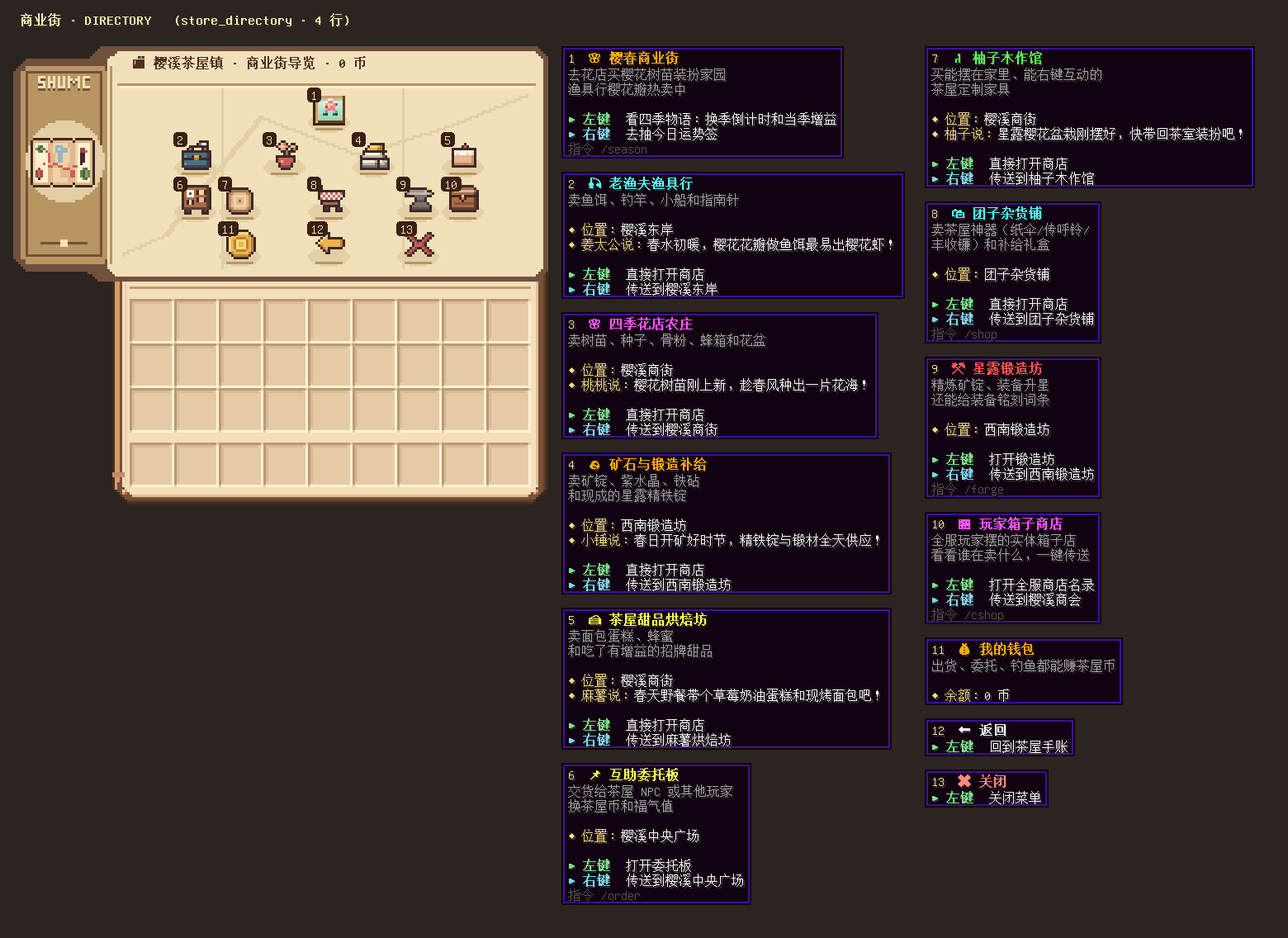
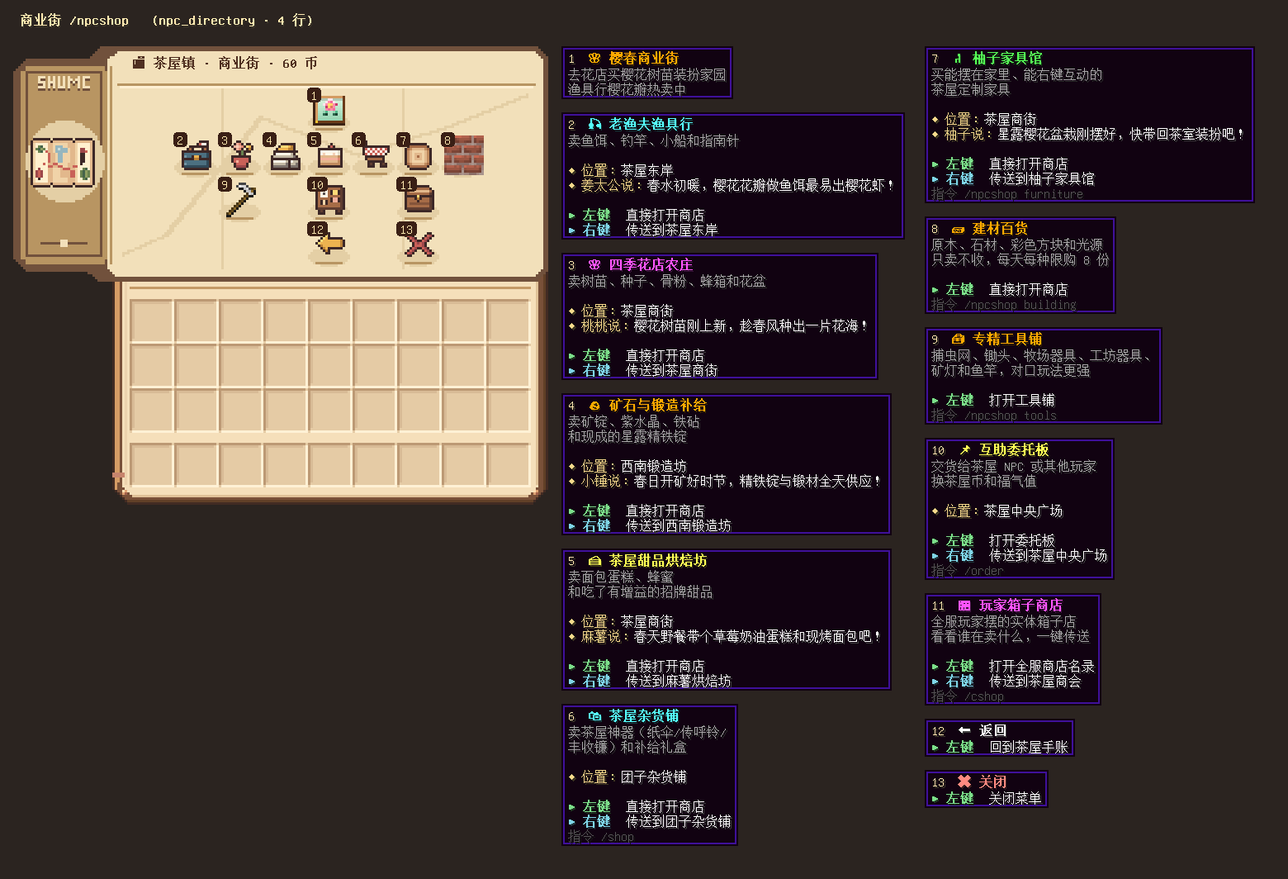
同步 2026-11-26 线上 CozyLife 1.8.3（含 1.8.1 菜单精简 / 1.8.2 财富榜）：家具只在柚子家具馆、杂货铺两页、商业街为全部商店入口、生活专精进主菜单、锻造坊右键传送、财富榜在排行榜、隐藏称号/迎客只在个人设置、3D 机器回各自玩法菜单；重渲 9 张菜单图；FAQ 补资源世界重置恢复正常；首页最近更新

Changed region(s): [[0.0, 0.0, 0.9846, 0.9615]]

diff --git a/furniture.html b/furniture.html
@@ -46,30 +46,30 @@
 </div></div>
 
 <h2>柚子家具馆 /npcshop furniture</h2>
-<p>商业大街西侧的家具匠人 <strong>柚子</strong>（右键 NPC），或输入 <code class="cmd">/npcshop furniture</code> 打开 <strong>🪑 柚子家具馆</strong>。店里一共 64 件在卖的茶屋家具，另有 1 台 3D 茶屋烹饪灶台和 8 台牧场 / 农田 / 捕虫的 3D 设施同价代售。</p>
+<p>商业大街西侧的家具匠人 <strong>柚子</strong>（右键 NPC），或输入 <code class="cmd">/npcshop furniture</code> 打开 <strong>🪑 柚子家具馆</strong>；菜单里走主菜单「🛒 商业街」→「🪑 柚子家具馆」。店里一共 64 件在卖的茶屋家具，<strong>全服只有这一家卖家具</strong>。</p>
 <ul>
   <li><strong>第一排</strong>：9 个分类标签——🏠 全部家具，和 8 类装饰（座椅、桌台、收纳·床铺、灯具、厨房、墙饰·地毯、绿植、鼠鼠茶屋）。</li>
-  <li><strong>第二排正中</strong>：<strong>⚒ 工作台</strong>标签，单独一页放「玩法入口」家具和全服的 3D 设施。</li>
-  <li><strong>中间三排</strong>：每页 21 件商品，左键买 1 件；每件都写着尺寸、摆法、互动和价格。</li>
-  <li><strong>最后一排</strong>：上一页 · 💰 我的余额 · 返回商业街导览 · ❓ 家具怎么摆 · 下一页。</li>
+  <li><strong>第二排正中</strong>：<strong>⚒ 工作台</strong>标签，单独一页放 8 件「玩法入口」家具。</li>
+  <li><strong>中间三排</strong>：每页最多 21 件商品，左键买 1 件；每件都写着尺寸、摆法、互动和价格（一页不满 7 件时排在中间那排正中）。</li>
+  <li><strong>最后一排</strong>：上一页 · 💰 我的余额 · 返回商业街 · ❓ 家具怎么摆 · 下一页。</li>
 </ul>
-<p>福气值 ≥100 时家具 9 折（价格里已算好）。祝尼魔果酱展示架、祝尼魔毛绒玩偶要等全服修好「❄ 冬季暖炉包」才能买，修好「⛏ 矿洞星辉包」后半价。杂货铺 <code class="cmd">/shop</code> 的「装饰家具」分页还是只卖经典 7 件，那里有一格「🪑 去柚子家具馆」。</p>
+<p>福气值 ≥100 时家具 9 折（价格里已算好）。祝尼魔果酱展示架、祝尼魔毛绒玩偶要等全服修好「❄ 冬季暖炉包」才能买，修好「⛏ 矿洞星辉包」后半价。杂货铺 <code class="cmd">/shop</code> 已经不卖家具了。</p>
 <div class="table-wrap"><table>
 <tr><th>分类</th><th>件数</th><th>有哪些</th></tr>
 <tr><td>🪑 座椅</td><td>8 件</td><td>芝芝软垫坐垫、樱木靠背椅、茶屋圆木凳、紫藤坐垫、樱花长椅、鼠鼠软沙发、暖绒扶手椅、和室靠背座椅</td></tr>
 <tr><td>🍵 桌台</td><td>6 件</td><td>圆矮桌、茶室方桌、长茶桌、读书写字桌、樱花小边几、暖桌被炉</td></tr>
 <tr><td>📚 收纳·床铺</td><td>9 件</td><td>祝尼魔果酱展示架、樱木书架、茶具柜、桐木阶梯柜、墙上小木架、竹编收纳篮、回收木箱、樱花被褥、鼠鼠木框床</td></tr>
 <tr><td>🏮 灯具</td><td>8 件</td><td>暖黄小台灯、纸行灯、红纸灯笼、樱花串灯、铜烛台、石灯笼、守夜小茶炉、雾沼紫晶灯</td></tr>
-<tr><td>🍚 厨房</td><td>5 件（含 3D 茶屋烹饪灶台）</td><td>洗碗台、鼠鼠电饭煲、碗碟架、料理台</td></tr>
+<tr><td>🍚 厨房</td><td>4 件</td><td>洗碗台、鼠鼠电饭煲、碗碟架、料理台</td></tr>
 <tr><td>🖼 墙饰·地毯</td><td>9 件</td><td>晴天风铃、樱花挂轴、格子窗（带窗帘）、鼠鼠挂钟、鼠纹暖帘、鼠鼠家纹匾额、榻榻米、樱花圆地毯、鼠鼠脚垫</td></tr>
 <tr><td>🌿 绿植</td><td>6 件</td><td>星露樱花盆栽、龟背竹大盆栽、吊篮绿萝、生花花器、竹子盆景、窗台多肉三连</td></tr>
 <tr><td>🐭 鼠鼠茶屋</td><td>9 件</td><td>桌面茶具、祝尼魔毛绒玩偶、鼠鼠大玩偶、茶屋收银柜台、茶屋立式菜单、招财鼠、茶壶展示台、萌宠藤编小窝、鼠鼠迎客邮筒</td></tr>
-<tr><td>⚒ 工作台</td><td>16 件（含牧场 4 台加工机、3 档洒水器、玻璃生态瓶）</td><td>铁壶炭炉、茶屋发酵木桶、烘焙石窑、星露铁砧台、鉴宝台、委托告示板、饰品梳妆台、茶屋出货箱</td></tr>
+<tr><td>⚒ 工作台</td><td>8 件</td><td>铁壶炭炉、茶屋发酵木桶、烘焙石窑、星露铁砧台、鉴宝台、委托告示板、饰品梳妆台、茶屋出货箱</td></tr>
 </table></div>
 <p>星渊纪念家具（守夜小茶炉、雾沼紫晶灯）和回收木箱也会出现在分类页里，但不卖，点一下会告诉你去哪拿。原来的「🔥 炭火灶台」已停售，外观换给了 3D 茶屋烹饪灶台；已经摆着的炭火灶台照常能当灯用。</p>
 
 <h3>⚒ 工作台页</h3>
-<p>工作台页一共 16 件：茶屋自己的 8 件玩法入口家具，加上原来分散在各处的 8 台 3D 设施（同价互通，在哪买都一样）：</p>
+<p>工作台页一共 8 件玩法入口家具：</p>
 <div class="table-wrap"><table>
 <tr><th>家具 / 设施</th><th>右键做什么</th><th>价格</th></tr>
 <tr><td>♨ 铁壶炭炉</td><td>右键喝茶回血；潜行右键打开茶屋工坊（站点 +15%）</td><td>320 币</td></tr>
@@ -80,10 +80,8 @@
 <tr><td>📜 委托告示板</td><td>挂墙；打开委托板 <code>/order</code></td><td>360 币</td></tr>
 <tr><td>💍 饰品梳妆台</td><td>打开饰品匣 <code>/accessory</code></td><td>520 币</td></tr>
 <tr><td>📦 茶屋出货箱</td><td>一键卖出背包物产（同 <code>/sell</code>）</td><td>420 币</td></tr>
-<tr><td>🥚🧀🧵🫒 牧场 4 台加工机</td><td>蛋黄酱 / 奶酪 / 织布 / 松露精油</td><td>1200 / 1500 / 1800 / 2800 币</td></tr>
-<tr><td>🥉🥈💎 3 档自动洒水器</td><td>3×3 / 5×5 / 7×7 耕地保湿 + 催熟</td><td>320 / 780 / 1680 币</td></tr>
-<tr><td>🌿 3D 玻璃生态瓶</td><td>放星级昆虫永久展示（鱼缸不在这页）</td><td>2200 币</td></tr>
 </table></div>
+<div class="callout tip"><img class="px" src="images/art/housekey.png" alt=""><div><p><strong>3D 机器不在家具馆卖</strong>：宴席烹饪灶台在 <code class="cmd">/feast</code>，牧场 4 台加工机在 <code class="cmd">/ranch</code>，3 档自动洒水器在农耕 <code class="cmd">/farm</code> 的「肥料与洒水器」页，3D 玻璃生态瓶在捕虫商店 <code class="cmd">/bug</code>。价格不变，摆放规则（不叠放、能摆在地毯上）也和家具一样。</p></div></div>
 
 <h2>怎么摆放</h2>
 <ul>
@@ -104,7 +102,7 @@
 <p>不加新规则：家具只是把已有玩法「接」到家里，规则和数值都和原来的指令一样。</p>
 <h3>厨房：宴席灶台与宴席上桌</h3>
 <ul>
-  <li><strong>🍳 3D 茶屋烹饪灶台</strong>（1200 币，家具馆「厨房」页第一格，也能在 <code class="cmd">/feast</code> 买）：右键打开两页菜单——<strong>🍲 家常料理</strong>（就是 <code class="cmd">/kitchen</code> 茶屋食谱）和 <strong>🍳 宴席大餐</strong>；烹饪中右键是颠勺。锅里没菜时潜行右键收回。</li>
+  <li><strong>🍳 3D 茶屋烹饪灶台</strong>（1200 币，在 <code class="cmd">/feast</code> 买）：右键打开两页菜单——<strong>🍲 家常料理</strong>（就是 <code class="cmd">/kitchen</code> 茶屋食谱）和 <strong>🍳 宴席大餐</strong>；烹饪中右键是颠勺。锅里没菜时潜行右键收回。</li>
   <li><strong>宴席上桌</strong>：拿着做好的宴席右键<strong>圆矮桌、茶室方桌、长茶桌、樱花小边几、暖桌被炉</strong>，菜就摆在桌面上；长茶桌每格一份。</li>
   <li><strong>🔪 料理台、📋 茶屋立式菜单</strong>：右键打开茶屋食谱。</li>
 </ul>
@@ -216,7 +214,6 @@
 <h3>🍚 厨房</h3>
 <div class="table-wrap"><table>
 <tr><th>家具</th><th>尺寸</th><th>摆法</th><th>互动</th><th>价格 / 获得</th></tr>
-<tr><td>🍳 3D 茶屋烹饪灶台</td><td>1×1</td><td>地面</td><td>右键：家常料理 + 宴席大餐</td><td>1200 币（和 /feast 同一台、同价，不打福气折扣）</td></tr>
 <tr><td>🚰 洗碗台</td><td>1×1</td><td>地面</td><td>摸一摸（音效 + 特效）</td><td>440 币</td></tr>
 <tr><td>🍚 鼠鼠电饭煲</td><td>1×1</td><td>地面</td><td>摸一摸（音效 + 特效）</td><td>220 币</td></tr>
 <tr><td>🍽 碗碟架</td><td>1×1</td><td>地面</td><td>摸一摸（音效 + 特效）</td><td>180 币</td></tr>
@@ -269,14 +266,20 @@
 <tr><td>📜 委托告示板</td><td>1×1</td><td>挂墙</td><td>右键开委托板</td><td>360 币</td></tr>
 <tr><td>💍 饰品梳妆台</td><td>1×1</td><td>地面</td><td>右键开饰品匣</td><td>520 币</td></tr>
 <tr><td>📦 茶屋出货箱</td><td>1×1</td><td>地面</td><td>右键一键出货</td><td>420 币</td></tr>
-<tr><td>🥚 蛋黄酱制作机</td><td>1×1</td><td>地面</td><td>牧场 3D 加工机：黄金土鸡蛋 → 金丝蛋黄酱（90 秒）</td><td>1200 币（和 /ranch 同价）</td></tr>
-<tr><td>🧀 奶酪压榨机</td><td>1×1</td><td>地面</td><td>牧场 3D 加工机：星露鲜奶 → 星露陈年奶酪（110 秒）</td><td>1500 币（和 /ranch 同价）</td></tr>
-<tr><td>🧵 茶屋织布机</td><td>1×1</td><td>地面</td><td>牧场 3D 加工机：柔云细羊毛 → 星露丝绒布（120 秒）</td><td>1800 币（和 /ranch 同价）</td></tr>
-<tr><td>🫒 松露精油机</td><td>1×1</td><td>地面</td><td>牧场 3D 加工机：牧场黑松露 → 黑金松露精油（150 秒）</td><td>2800 币（和 /ranch 同价）</td></tr>
-<tr><td>🥉 铜制自动洒水器</td><td>1×1</td><td>农田</td><td>3×3 耕地保湿，每 30 秒 4% 催熟</td><td>320 币（和 /farm 同价）</td></tr>
-<tr><td>🥈 银质自动洒水器</td><td>1×1</td><td>农田</td><td>5×5 耕地保湿，每 25 秒 7% 催熟</td><td>780 币（和 /farm 同价）</td></tr>
-<tr><td>💎 铱金自动洒水器</td><td>1×1</td><td>农田</td><td>7×7 耕地保湿，每 20 秒 10% 催熟 + 品质提升</td><td>1680 币（和 /farm 同价）</td></tr>
-<tr><td>🌿 3D 玻璃生态瓶</td><td>1×1</td><td>桌面 / 地面</td><td>手持星级昆虫右键放进去永久展示</td><td>2200 币（和 /bug 同价）</td></tr>
+</table></div>
+<h3>3D 机器（在各自玩法菜单买）</h3>
+<p>这几台和家具一样摆在家里、遵守同样的摆放规则，但不在柚子家具馆卖：</p>
+<div class="table-wrap"><table>
+<tr><th>机器</th><th>尺寸</th><th>摆法</th><th>互动</th><th>价格 / 在哪买</th></tr>
+<tr><td>🍳 3D 茶屋烹饪灶台</td><td>1×1</td><td>地面</td><td>右键：家常料理 + 宴席大餐</td><td>1200 币（<code>/feast</code> 买，不打福气折扣）</td></tr>
+<tr><td>🥚 蛋黄酱制作机</td><td>1×1</td><td>地面</td><td>牧场 3D 加工机：黄金土鸡蛋 → 金丝蛋黄酱（90 秒）</td><td>1200 币（<code>/ranch</code> 买）</td></tr>
+<tr><td>🧀 奶酪压榨机</td><td>1×1</td><td>地面</td><td>牧场 3D 加工机：星露鲜奶 → 星露陈年奶酪（110 秒）</td><td>1500 币（<code>/ranch</code> 买）</td></tr>
+<tr><td>🧵 茶屋织布机</td><td>1×1</td><td>地面</td><td>牧场 3D 加工机：柔云细羊毛 → 星露丝绒布（120 秒）</td><td>1800 币（<code>/ranch</code> 买）</td></tr>
+<tr><td>🫒 松露精油机</td><td>1×1</td><td>地面</td><td>牧场 3D 加工机：牧场黑松露 → 黑金松露精油（150 秒）</td><td>2800 币（<code>/ranch</code> 买）</td></tr>
+<tr><td>🥉 铜制自动洒水器</td><td>1×1</td><td>农田</td><td>3×3 耕地保湿，每 30 秒 4% 催熟</td><td>320 币（<code>/farm</code> 肥料与洒水器页买）</td></tr>
+<tr><td>🥈 银质自动洒水器</td><td>1×1</td><td>农田</td><td>5×5 耕地保湿，每 25 秒 7% 催熟</td><td>780 币（<code>/farm</code> 肥料与洒水器页买）</td></tr>
+<tr><td>💎 铱金自动洒水器</td><td>1×1</td><td>农田</td><td>7×7 耕地保湿，每 20 秒 10% 催熟 + 品质提升</td><td>1680 币（<code>/farm</code> 肥料与洒水器页买）</td></tr>
+<tr><td>🌿 3D 玻璃生态瓶</td><td>1×1</td><td>桌面 / 地面</td><td>手持星级昆虫右键放进去永久展示</td><td>2200 币（<code>/bug</code> 捕虫商店买）</td></tr>
 </table></div>
 
 </main>

diff --git a/economy.html b/economy.html
@@ -107,7 +107,7 @@
 <figure class="menu-shot"><a href="images/menus/full/orders.png"><img src="images/menus/orders.png" alt="委托板（/order）" loading="lazy"></a><figcaption>委托板（/order） · <span class="zoom">点图看每个按钮的说明</span></figcaption></figure>
 
 <h2>茶屋杂货铺 /shop</h2>
-<p><code class="cmd">/shop</code>（别名 <code>/商店</code>、<code>/杂货铺</code>）有三个分页：茶屋神器、礼盒与珍藏、装饰家具。</p>
+<p><code class="cmd">/shop</code>（别名 <code>/商店</code>、<code>/杂货铺</code>）有两个分页：茶屋神器、礼盒与珍藏。菜单里从主菜单「🛒 商业街」进，返回键也回商业街。</p>
 <h3>茶屋神器</h3>
 <div class="item-grid">
 <div class="item"><img src="images/items/claim_wand.png" alt="" loading="lazy"><div><div class="i-name">茶屋金铲圈地杖</div><div class="i-sub">120 币 · 右键两点圈地</div></div></div>
@@ -121,22 +121,19 @@
 </div>
 <h3>礼盒与珍藏</h3>
 <p>抹茶拿铁、冰美式、命名牌、樱花建造礼盒、柔光建筑礼盒、烟花，以及限购的附魔之瓶 ×16（每日 2 次）、金苹果 ×2（每日 2 次）、不死图腾（每周 1 次，2800 币）、潜影盒（每周 2 次，2400 币）、经验修补附魔书（每周 1 次，3800 币）、鞘翅（终身 1 次，6800 币）。</p>
-<h3>装饰家具</h3>
-<p>能摆在家里、右键互动的 3D 家具：桌面茶具 260 币（品茶回血）、星露樱花盆栽 280 币、暖黄小台灯 320 币（真光源，可开关）、晴天风铃 280 币、芝芝软垫坐垫 240 币（右键坐下）；拿着家具右键地面摆放，<strong>左键或潜行右键收回</strong>，只有主人和搭子能收回。另有两件要全服完成「❄ 冬季暖炉包」献祭后才能买：祝尼魔果酱展示架 480 币、祝尼魔毛绒玩偶 560 币（「⛏ 矿洞星辉包」修好后半价）。</p>
-<p>杂货铺只卖这经典 7 件。更多 3D 家具（共 64 件在卖，含能一键出货的茶屋出货箱、开工坊的发酵木桶等）在商业街的 <strong>柚子家具馆</strong> <code class="cmd">/npcshop furniture</code>，见 <a href="furniture.html">茶屋家具</a>。</p>
-<div class="inline-icons"><img class="px" src="images/items/tea_set.png" alt=""> <img class="px" src="images/items/sakura_bonsai.png" alt=""> <img class="px" src="images/items/cozy_lamp.png" alt=""> <img class="px" src="images/items/wind_chime.png" alt=""> <img class="px" src="images/items/mochi_cushion.png" alt=""> <img class="px" src="images/items/jam_shelf.png" alt=""> <img class="px" src="images/items/junimo_plush.png" alt=""></div>
+<h3>家具去哪买</h3>
+<p>杂货铺不再卖家具。所有 3D 家具（共 64 件在卖，含桌面茶具、暖黄小台灯、芝芝软垫坐垫等经典款，以及能一键出货的茶屋出货箱、开工坊的发酵木桶）都在商业街的 <strong>🪑 柚子家具馆</strong> <code class="cmd">/npcshop furniture</code>，见 <a href="furniture.html">茶屋家具</a>。</p>
 <div class="shots">
 <figure class="menu-shot"><a href="images/menus/full/shop_tools.png"><img src="images/menus/shop_tools.png" alt="杂货铺 · 茶屋神器" loading="lazy"></a><figcaption>杂货铺 · 茶屋神器 · <span class="zoom">点图看每个按钮的说明</span></figcaption></figure>
 <figure class="menu-shot"><a href="images/menus/full/shop_supplies.png"><img src="images/menus/shop_supplies.png" alt="杂货铺 · 礼盒与珍藏" loading="lazy"></a><figcaption>杂货铺 · 礼盒与珍藏 · <span class="zoom">点图看每个按钮的说明</span></figcaption></figure>
-<figure class="menu-shot"><a href="images/menus/full/shop_furniture.png"><img src="images/menus/shop_furniture.png" alt="杂货铺 · 装饰家具" loading="lazy"></a><figcaption>杂货铺 · 装饰家具 · <span class="zoom">点图看每个按钮的说明</span></figcaption></figure>
 </div>
 <div class="callout tip"><img class="px" src="images/art/koi.png" alt=""><div><p>许愿池里福气值 ≥100 时，主城商店打 9 折；换到「👑 锦鲤大善人」称号后永久 9 折。见 <a href="social.html#锦鲤许愿池-pool">锦鲤许愿池</a>。</p></div></div>
 
 <h2>建材百货</h2>
-<p>在 <code class="cmd">/shop</code> 商业街导览里新增的一家店，也可以 <code class="cmd">/npcshop building</code>（别名 <code>jiancai</code>）直接打开。四个分类共 44 件建材：<strong>木材、石材、装饰、远征与光源</strong>，含 16 色羊毛 / 染色玻璃 / 染色陶瓦 / 混凝土粉选色，单份 32–320 币（价格以游戏内为准）。只卖不收，每人每天每种限购 8 份；福气 9 折照常。盖房子缺料，先来这里补齐再开工。</p>
+<p>商业街（主菜单「🛒 商业街」或 <code class="cmd">/npcshop</code>）里的一家店，也可以 <code class="cmd">/npcshop building</code>（别名 <code>jiancai</code>）直接打开。四个分类共 44 件建材：<strong>木材、石材、装饰、远征与光源</strong>，含 16 色羊毛 / 染色玻璃 / 染色陶瓦 / 混凝土粉选色，单份 32–320 币（价格以游戏内为准）。只卖不收，每人每天每种限购 8 份；福气 9 折照常。盖房子缺料，先来这里补齐再开工。</p>
 
 <h2>荣誉称号 /title</h2>
-<p><code class="cmd">/title</code> 打开「我的称号」：只列你已经拥有的称号，点一下就佩戴。佩戴的称号会显示在聊天名字前、头顶名字前和 Tab 列表里，一次只显示一个，随时免费换，也可以隐藏。菜单底部的「🏷 获取更多称号」打开称号图鉴，可以用茶屋币买下面这些：</p>
+<p><code class="cmd">/title</code> 打开「我的称号」：只列你已经拥有的称号，点一下就佩戴。佩戴的称号会显示在聊天名字前、头顶名字前和 Tab 列表里，一次只显示一个，随时免费换。想隐藏称号去 <code class="cmd">/shezhi</code> 个人设置的「🏷 显示称号」开关。手账里从「📊 我的档案」点头像进「我的称号」。菜单右下角的「🏷 获取更多称号」打开称号图鉴，可以用茶屋币买下面这些：</p>
 <div class="table-wrap"><table>
 <tr><th>称号</th><th>价格</th></tr>
 <tr><td>🌸 樱花茶客</td><td>免费（新人默认）</td></tr>
@@ -147,7 +144,7 @@
 <tr><td>👑 茶屋名誉镇长</td><td>1200 币</td></tr>
 </table></div>
 <p>另外，专精到 Lv10 / Lv20 会自动获得专精称号，许愿池福气商店能换「👑 锦鲤大善人」，它们都会出现在「我的称号」里，想戴哪个选哪个。</p>
-<figure class="menu-shot"><a href="images/menus/full/title.png"><img src="images/menus/title.png" alt="荣誉称号（/title）" loading="lazy"></a><figcaption>荣誉称号（/title） · <span class="zoom">点图看每个按钮的说明</span></figcaption></figure>
+<figure class="menu-shot"><a href="images/menus/full/title.png"><img src="images/menus/title.png" alt="我的称号（/title）" loading="lazy"></a><figcaption>我的称号（/title） · <span class="zoom">点图看每个按钮的说明</span></figcaption></figure>
 </main>
 </div>
 <footer class="site-footer">

diff --git a/town.html b/town.html
@@ -72,19 +72,19 @@
 </div>
 
 <h2>商业街专柜</h2>
-<p><code class="cmd">/npcshop</code>（别名 <code>/商铺</code>、<code>/专柜</code>）打开商业街导览：<strong>左键</strong>直接打开某家店的商店，<strong>右键</strong>传送到那家店门口。也可以直接 <code>/npcshop tackle|florist|blacksmith|bakery|furniture|building|tools</code> 打开某一家。</p>
+<p><code class="cmd">/npcshop</code>（别名 <code>/商铺</code>、<code>/专柜</code>）打开 <strong>🛒 商业街</strong>（手账主菜单里也叫「🛒 商业街」），全服所有商店都从这里进：第一排 7 家店（渔具行、花店、矿石补给、烘焙坊、杂货铺、柚子家具馆、建材百货），第二排专精工具铺、互助委托板、玩家箱子商店。<strong>左键</strong>直接打开某家店的商店，<strong>右键</strong>传送到那家店门口。也可以直接 <code>/npcshop tackle|florist|blacksmith|bakery|furniture|building|tools</code> 打开某一家。</p>
 <div class="table-wrap"><table>
 <tr><th>店铺</th><th>店主</th><th>卖什么</th></tr>
-<tr><td><img class="px" src="images/art/creel.png" alt="">老渔夫渔具行 <code>tackle</code></td><td>姜太公</td><td>四种诱饵（樱花花瓣、发光浆果、甜浆果、生鳕鱼）、钓鱼竿、樱花木船、航海指南针；「专精鱼竿架」卖 7 种专精鱼竿，见 <a href="tools.html#rods">专精工具</a></td></tr>
+<tr><td><img class="px" src="images/art/creel.png" alt="">老渔夫渔具行 <code>tackle</code></td><td>姜太公</td><td>四种诱饵（樱花花瓣、发光浆果、甜浆果、生鳕鱼）、钓鱼竿、樱花木船、航海指南针；7 种专精鱼竿在专精工具铺的鱼竿货架，见 <a href="tools.html#rods">专精工具</a></td></tr>
 <tr><td><img class="px" src="images/art/seeds.png" alt="">四季花店农庄 <code>florist</code></td><td>桃桃</td><td>樱花树苗、翠竹、小麦种子、胡萝卜、骨粉、蜂箱、花盆</td></tr>
 <tr><td><img class="px" src="images/art/anvil.png" alt="">矿石与锻造补给 <code>blacksmith</code></td><td>小锤</td><td>煤炭、铁锭、金锭、紫水晶碎片、成品星露精铁锭 / 红莲淬火石、铁砧、锻造台</td></tr>
 <tr><td><img class="px" src="images/art/giftbox.png" alt="">茶屋甜品烘焙坊 <code>bakery</code></td><td>麻薯</td><td>面包、草莓奶油蛋糕、南瓜派、曲奇、蜂蜜瓶、招牌松饼与奶昔</td></tr>
-<tr><td><img class="px" src="images/art/housekey.png" alt="">柚子家具馆 <code>furniture</code></td><td>柚子</td><td>64 件 3D 茶屋家具分 9 类翻页卖，另有 ⚒ 工作台页（工坊站点、锻造鉴宝入口、出货箱、牧场加工机、洒水器、生态瓶），见 <a href="furniture.html">茶屋家具</a></td></tr>
+<tr><td><img class="px" src="images/art/housekey.png" alt="">柚子家具馆 <code>furniture</code></td><td>柚子</td><td>全服唯一的家具店：64 件 3D 茶屋家具分 9 类翻页卖，另有 ⚒ 工作台页（工坊站点、锻造 / 鉴宝 / 委托 / 饰品入口、出货箱），见 <a href="furniture.html">茶屋家具</a></td></tr>
 <tr><td><img class="px" src="images/art/stalls.png" alt="">建材百货 <code>building</code></td><td>—</td><td>木材、石材、装饰、远征与光源共 44 件建材，只卖不收，见 <a href="economy.html#建材百货">经济页</a></td></tr>
 <tr><td><img class="px" src="images/items/hoe_field.png" alt="">专精工具铺 <code>tools</code></td><td>—</td><td>专精捕虫网、锄头、牧场器具、工坊器具、矿灯，以及 6 件传奇工具的进度与领取，见 <a href="tools.html">专精工具</a></td></tr>
-<tr><td><img class="px" src="images/art/stalls.png" alt="">团子杂货铺</td><td>—</td><td><code class="cmd">/shop</code>：茶屋神器、补给礼盒、装饰家具，见 <a href="economy.html#茶屋杂货铺-shop">经济页</a></td></tr>
+<tr><td><img class="px" src="images/art/stalls.png" alt="">茶屋杂货铺</td><td>团子</td><td><code class="cmd">/shop</code>：茶屋神器、礼盒与珍藏（家具去柚子家具馆），见 <a href="economy.html#茶屋杂货铺-shop">经济页</a></td></tr>
 </table></div>
-<figure class="menu-shot"><a href="images/menus/full/store_directory.png"><img src="images/menus/store_directory.png" alt="商业街导览（/npcshop）" loading="lazy"></a><figcaption>商业街导览（/npcshop） · <span class="zoom">点图看每个按钮的说明</span></figcaption></figure>
+<figure class="menu-shot"><a href="images/menus/full/store_directory.png"><img src="images/menus/store_directory.png" alt="商业街（/npcshop）" loading="lazy"></a><figcaption>商业街（/npcshop） · <span class="zoom">点图看每个按钮的说明</span></figcaption></figure>
 
 <h2>主城 NPC 一览</h2>
 <p>主城里站着 20 位可以点的 NPC，<strong>左键或右键点一下</strong>就会打开对应的菜单，和输入指令效果一样。找不到人时直接输指令也行。</p>

diff --git a/social.html b/social.html
@@ -54,9 +54,9 @@
 
 <h2>串门、留言与点赞</h2>
 <ul>
-  <li><code class="cmd">/visit</code>（别名 <code>/做客</code>、<code>/拜访</code>）：打开<strong>邻里家园榜</strong>，去好友家做客。在野外 <code class="cmd">/sethome</code> 后你的家就会出现在榜上；<code>/visit toggle</code> 开关迎客。</li>
+  <li><code class="cmd">/visit</code>（别名 <code>/做客</code>、<code>/拜访</code>）：打开<strong>邻里家园榜</strong>，去好友家做客。在野外 <code class="cmd">/sethome</code> 后你的家就会出现在榜上；<code>/visit toggle</code> 开关迎客（菜单里的迎客开关在 <code class="cmd">/shezhi</code> 个人设置）。</li>
   <li><code class="cmd">/like</code> <code>玩家名</code>（别名 <code>/点赞</code>）：给好友的家点赞送花：<strong>双方各得 10 茶屋币 + 5 福气值</strong>。每天最多送 3 朵，同一位好友每天 1 次；对方要先在野外 <code>/sethome</code> 才能被点赞。</li>
-  <li><code class="cmd">/guestbook</code>（别名 <code>/留言簿</code>）：看自己家门口的便利贴；<code>/guestbook 玩家名 留言</code> 给好友留言（每人最多保留 14 条），每天前 3 次留言各得 8 茶屋币。</li>
+  <li><code class="cmd">/guestbook</code>（别名 <code>/留言簿</code>）：看自己家门口的便利贴；菜单里从邻里家园榜进；<code>/guestbook 玩家名 留言</code> 给好友留言（每人最多保留 14 条），每天前 3 次留言各得 8 茶屋币。</li>
   <li><strong>名片上的家具</strong>：邻里家园榜每张名片多了「家园内饰」一行，统计屋主和搭子在家附近 32 格内摆的茶屋家具、烹饪灶台、牧场加工机、洒水器和生态瓶件数，再挑几个亮点标签（茶席、工坊、收银专柜、星渊纪念……）。</li>
   <li><strong>到了门口也能互动</strong>：屋主门口的 🎏 鼠纹暖帘右键直接点赞送花，📮 鼠鼠迎客邮筒 / 📚 读书写字桌右键看留言簿并弹出 [👍 点赞送花] [✍ 写便利贴]；屋主只租了庄园、还没 <code>/sethome</code> 也能送。详见 <a href="furniture.html#社交互动家具">社交互动家具</a>。</li>
 </ul>
@@ -83,15 +83,15 @@
 <figure class="menu-shot"><a href="images/menus/full/fortune.png"><img src="images/menus/fortune.png" alt="今日运势签（/fortune）" loading="lazy"></a><figcaption>今日运势签（/fortune） · <span class="zoom">点图看每个按钮的说明</span></figcaption></figure>
 
 <h2>我的档案与全服排行榜</h2>
-<p>手账第一排的「📊 我的档案」（或 <code class="cmd">/profile</code>）把你在茶屋的成绩放在一页：财富、专精、钓鱼（图鉴进度和最大的鱼）、星渊、环保分、邻里人气、签到天数，每一项旁边都写着你的全服名次。点头像可以打开「我的称号」。</p>
-<p><code class="cmd">/paihang</code>（或 <code class="cmd">/rank</code>）是全服排行榜，一共七个榜：财富、专精、鱼王、星渊、环保、人气、签到。鼠标停在榜单上能看到前 10 名。榜单每 5 分钟更新一次，刚钓到的大鱼稍等一会儿就会上榜。</p>
+<p>手账第一排的「📊 我的档案」（或 <code class="cmd">/profile</code>）把你在茶屋的成绩放在一页：财富、专精、钓鱼（图鉴进度和最大的鱼）、星渊、环保分、邻里人气、签到天数，每一项旁边都写着你的全服名次（数据卡只看数据，不跳转）。点头像打开「我的称号」，页里还有 🏆 排行榜和 ⚙ 个人设置。</p>
+<p><code class="cmd">/paihang</code>（或 <code class="cmd">/rank</code>）是全服排行榜，一共七个榜：<strong>财富榜</strong>（按当前茶屋币余额，钱包里的「🏆 财富榜」也能打开）、专精、鱼王、星渊、环保、人气、签到。鼠标停在榜单上能看到前 10 名。榜单每 5 分钟更新一次，刚钓到的大鱼稍等一会儿就会上榜。</p>
 
 <h2>个人设置 /shezhi</h2>
 <p><code class="cmd">/shezhi</code>（或 <code class="cmd">/settings</code>）一个菜单管好这些开关：</p>
 <div class="table-wrap"><table>
 <tr><th>开关</th><th>作用</th></tr>
 <tr><td>✨ 个人特效</td><td>打开个人特效页，统一管理樱花飘落、庆典光环和星渊拖尾（见下）</td></tr>
-<tr><td>🏷 显示称号</td><td>隐藏或恢复你佩戴的称号；右键直接打开我的称号</td></tr>
+<tr><td>🏷 显示称号</td><td>隐藏或恢复你佩戴的称号（全服只有这里能隐藏；关了再打开会恢复原来的称号）</td></tr>
 <tr><td>🏡 家园迎客</td><td>关掉就是闭门谢客，别人暂时不能来串门</td></tr>
 <tr><td>🚀 接受传送请求</td><td>不想被人拉来拉去时关掉</td></tr>
 <tr><td>💬 接收私信</td><td>想安静种田时关掉</td></tr>

diff --git a/index.html b/index.html
@@ -60,12 +60,21 @@
 </div></div>
 
 <h2 id="recent">最近更新</h2>
+<div class="callout tip"><img class="px" src="images/art/map.png" alt=""><div>
+  <p class="c-title">2026-11-26 · 菜单精简（一个玩法只留一个入口）</p>
+  <ul>
+    <li><strong>家具只在柚子家具馆卖</strong>：杂货铺 <code class="cmd">/shop</code> 只剩「茶屋神器」「礼盒与珍藏」两页；宴席灶台、牧场加工机、洒水器、生态瓶只在 <code class="cmd">/feast</code>、<code class="cmd">/ranch</code>、<code class="cmd">/farm</code>、<code class="cmd">/bug</code> 里买。见 <a href="furniture.html">茶屋家具</a>。</li>
+    <li>主菜单：「🛒 商业街」是全部商店的入口（杂货铺、委托板、箱子商店都在里面）；「🎭 生活专精」挪到主菜单；锻造坊按钮右键传送到锻造坊。</li>
+    <li>钱包里的富豪榜改成「🏆 财富榜」入口，打开全服排行榜（和 <code class="cmd">/paihang</code> 同一份）。隐藏称号、家园迎客开关只在 <code class="cmd">/shezhi</code> 个人设置。</li>
+    <li>资源世界、下界、末地每 7 天的重置恢复正常。所有指令照常能用。</li>
+  </ul>
+</div></div>
 <div class="callout tip"><img class="px" src="images/art/housekey.png" alt=""><div>
   <p class="c-title">2026-11-24 · 3D 家具大更新（CozyLife 1.8.0 / 星渊 0.9.6）</p>
   <ul>
-    <li><strong>柚子家具馆</strong> <code class="cmd">/npcshop furniture</code> 改成分类翻页：64 件 3D 家具，外加 ⚒ 工作台页（工坊站点、锻造 / 鉴宝 / 委托 / 饰品入口、牧场加工机、洒水器、生态瓶）。见 <a href="furniture.html">茶屋家具</a>。</li>
+    <li><strong>柚子家具馆</strong> <code class="cmd">/npcshop furniture</code> 改成分类翻页：64 件 3D 家具，外加 ⚒ 工作台页（工坊站点、锻造 / 鉴宝 / 委托 / 饰品入口、出货箱）。见 <a href="furniture.html">茶屋家具</a>。</li>
     <li>家具能<strong>挂墙、吊顶、铺地毯再叠放、坐下</strong>，左键收回；很多家具右键直接打开玩法：出货箱一键出货、萌宠小窝、迎客邮筒、收银柜台开店、书架看档案、暖帘点赞。</li>
-    <li>宴席灶台进家具馆，右键两页（家常料理 + 宴席大餐），宴席能摆上家具桌；工坊站点家具 +15%。</li>
+    <li>宴席灶台右键两页（家常料理 + 宴席大餐），宴席能摆上家具桌；工坊站点家具 +15%。</li>
     <li>专精 Lv5 / Lv10 突破送家具，昆虫 / 农耕图鉴满 12 种送家具，许愿池新增家具礼盒（80 福气值），星辉兑换所新增守夜小茶炉、雾沼紫晶灯。</li>
     <li><code class="cmd">/shezhi</code> 新增 ✨ 个人特效页（樱花飘落、庆典光环、星渊拖尾）；星渊武器皮肤会认主人；<code class="cmd">/visit</code> 名片显示家园家具；搭子在家一起坐、品茶、开工坊涨默契值。</li>
     <li>新页面 <a href="models.html">模型展示</a>：68 件家具和 13 种星渊怪物 / 首领的 3D 模型图。</li>
@@ -100,7 +109,7 @@
 </div></div>
 
 <h2>主菜单长什么样</h2>
-<p>下面是游戏里按 <kbd>Shift</kbd>+<kbd>F</kbd> 打开的「茶屋手账」主菜单（由服务器插件真实生成的菜单渲染图）。第一行是每天必点的签到、钱包、萌宠，以及 📊 我的档案；接下来三行按「采集生产 / 加工商店 / 出行与家园」分区；底部的 🌸 <strong>社交与更多</strong> 里是搭子、许愿池、运势、玩家商店等。</p>
+<p>下面是游戏里按 <kbd>Shift</kbd>+<kbd>F</kbd> 打开的「茶屋手账」主菜单（由服务器插件真实生成的菜单渲染图）。第一行是每天必点的签到、钱包、萌宠，以及 📊 我的档案；接下来三行按「采集生产 / 加工商店 / 出行与家园」分区：<strong>🛒 商业街</strong>是全部商店（杂货铺、柚子家具馆、专精工具铺、委托板、箱子商店……）的唯一入口，<strong>🎭 生活专精</strong>也在主菜单上。底部的 🌸 <strong>社交与更多</strong> 里是搭子、串门、许愿池、运势、食谱、道具图鉴等。</p>
 <div class="shots">
 <figure class="menu-shot"><a href="images/menus/full/main.png"><img src="images/menus/main.png" alt="茶屋手账 · 主菜单（/menu）" loading="lazy"></a><figcaption>茶屋手账 · 主菜单（/menu） · <span class="zoom">点图看每个按钮的说明</span></figcaption></figure>
 <figure class="menu-shot"><a href="images/menus/full/more.png"><img src="images/menus/more.png" alt="社交与更多" loading="lazy"></a><figcaption>社交与更多 · <span class="zoom">点图看每个按钮的说明</span></figcaption></figure>

diff --git a/tools.html b/tools.html
@@ -41,7 +41,7 @@
 <main class="content">
 <div class="page-head"><img class="px" src="images/items/net_galaxy.png" alt=""><div><h1>专精工具</h1><p class="lead">鱼竿、捕虫网、锄头、牧场器具、工坊器具和矿灯：在对口场景更强，越用越熟练，每条玩法还有一件传奇工具</p></div></div>
 <h2>专精工具铺 /npcshop tools</h2>
-<p>在 <code class="cmd">/npcshop</code> 商业街导览里点第 13 格的「🧰 专精工具铺」，或者直接输入 <code class="cmd">/npcshop tools</code>。铺子里有 6 个货架（鱼竿、捕虫、农耕、牧场、工坊、挖矿），还能查看 6 件传奇工具的进度并领取。</p>
+<p>在手账主菜单「🛒 商业街」（<code class="cmd">/npcshop</code>）第二排点「🧰 专精工具铺」，或者直接输入 <code class="cmd">/npcshop tools</code>。铺子里有 6 个货架（鱼竿、捕虫、农耕、牧场、工坊、挖矿），还能查看 6 件传奇工具的进度并领取。</p>
 <div class="callout tip"><img class="px" src="images/items/hoe_field.png" alt=""><div>
   <p class="c-title">专精工具怎么用</p>
   <p>每件工具只在<strong>对口的场景</strong>更强，换个地方就是普通工具。加成只提高出货的概率和品质，不直接给钱。鱼竿、捕虫网、锄头拿在主手；牧场器具和矿灯放在<strong>副手</strong>；工坊器具主手或副手都行。</p>
@@ -60,7 +60,7 @@
 <p>每件工具都有两张图：平时一张，干活一张。鱼竿和原版一样，甩出去就换成甩杆图。其它工具在加成生效的那一下会换成干活图，持续 1 到 3 秒：网里兜着虫、锄头翻土冒芽、奶桶装满、铃铛摇响、茶壶冒汽、矿灯发亮。传奇工具一直有流光闪过。</p>
 <div class="item-grid"><div class="item"><img src="images/items/rod_sea.png" alt="" loading="lazy"><img src="images/items/rod_sea_cast.png" alt="" loading="lazy"><div><div class="i-name">⚓ 远洋海钓竿</div><div class="i-sub">左边平时，右边干活</div></div></div><div class="item"><img src="images/items/net_flower.png" alt="" loading="lazy"><img src="images/items/net_flower_active.png" alt="" loading="lazy"><div><div class="i-name">🌼 花间纱网</div><div class="i-sub">左边平时，右边干活</div></div></div><div class="item"><img src="images/items/ranch_bell.png" alt="" loading="lazy"><img src="images/items/ranch_bell_active.png" alt="" loading="lazy"><div><div class="i-name">🔔 寻香铃铛</div><div class="i-sub">左边平时，右边干活</div></div></div></div>
 <h2 id="rods">🎣 专精鱼竿</h2>
-<p>在老渔夫渔具行（<code class="cmd">/npcshop tackle</code>）里点「专精鱼竿架」买，或者在专精工具铺点鱼竿货架过去。在对口的钓区，对口的鱼咬钩权重 ×1.7。</p>
+<p>在专精工具铺点鱼竿货架进「专精鱼竿架」买（老渔夫渔具行里不再放这个入口）。在对口的钓区，对口的鱼咬钩权重 ×1.7。</p>
 <div class="table-wrap"><table>
 <tr><th>鱼竿</th><th>价格</th><th>对口钓区</th><th>效果</th></tr>
 <tr><td><img class="px" src="images/items/rod_bamboo.png" alt="">🎋 溪流竹竿</td><td>280 币</td><td>河流、森林、沼泽、丛林</td><td>淡水鱼更爱咬钩，尺寸 +5%</td></tr>

diff --git a/recipes.html b/recipes.html
@@ -123,7 +123,7 @@
 <p>每级升星要什么合金，见 <a href="crafts.html#淬火升星">淬火升星</a>。</p>
 
 <h2>茶屋神器 /cozyitem</h2>
-<p><code class="cmd">/cozyitem</code>（别名 <code>/道具图鉴</code>）打开本服专属道具图鉴。这 8 件都在团子杂货铺 <code class="cmd">/shop</code> 的「茶屋神器」分类里买：</p>
+<p><code class="cmd">/cozyitem</code>（别名 <code>/道具图鉴</code>）打开本服专属道具图鉴。这 8 件都在茶屋杂货铺 <code class="cmd">/shop</code> 的「茶屋神器」分类里买：</p>
 <div class="table-wrap"><table>
 <tr><th>道具</th><th>价格</th><th>怎么用</th></tr>
 <tr><td><img class="px" src="images/items/claim_wand.png" alt="">茶屋金铲圈地杖</td><td>120 币</td><td>右键地面两个对角点圈出保护领地</td></tr>
@@ -138,7 +138,7 @@
 <figure class="menu-shot"><a href="images/menus/full/gallery.png"><img src="images/menus/gallery.png" alt="专属道具图鉴（/cozyitem）" loading="lazy"></a><figcaption>专属道具图鉴（/cozyitem） · <span class="zoom">点图看每个按钮的说明</span></figcaption></figure>
 
 <h2>3D 茶屋家具</h2>
-<p>下面是杂货铺「装饰家具」分页的经典 7 件。全部 68 件 3D 家具（座椅、桌台、床铺、灯具、厨房、墙饰地毯、绿植、工作台……）在 <strong>柚子家具馆</strong>（<code class="cmd">/npcshop furniture</code>）买，价格和摆法见 <a href="furniture.html">茶屋家具</a>，模型图见 <a href="models.html">模型展示</a>。拿着右键方块表面摆放，左键或潜行右键收回。</p>
+<p>下面是经典 7 件小家具（杂货铺已不卖家具，都在柚子家具馆买）。全部 3D 家具（座椅、桌台、床铺、灯具、厨房、墙饰地毯、绿植、工作台……）在 <strong>柚子家具馆</strong>（<code class="cmd">/npcshop furniture</code>）买，价格和摆法见 <a href="furniture.html">茶屋家具</a>，模型图见 <a href="models.html">模型展示</a>。拿着右键方块表面摆放，左键或潜行右键收回。</p>
 <div class="item-grid">
 <div class="item"><img src="images/items/tea_set.png" alt="" loading="lazy"><div><div class="i-name">🍵 桌面茶具</div><div class="i-sub">260 币 · 右键品茶回血</div></div></div>
 <div class="item"><img src="images/items/sakura_bonsai.png" alt="" loading="lazy"><div><div class="i-name">🌸 星露樱花盆栽</div><div class="i-sub">280 币 · 右键飘落樱花</div></div></div>

diff --git a/crafts.html b/crafts.html
@@ -85,7 +85,7 @@
 
 <h2>宴席灶台 /feast</h2>
 <p><code class="cmd">/feast</code>（别名 <code>/宴席</code>、<code>/大餐</code>）。先花 1200 币买一台 <strong>3D 茶屋烹饪灶台</strong>摆在家里（潜行右键收回），然后右键灶台选菜开火，还能右键灶台<strong>颠勺</strong>加速。做好的大餐摆上桌，大家分着吃。</p>
-<p>灶台也在柚子家具馆「厨房」页第一格卖（同一台、同价 1200 币）。<strong>右键灶台是两页菜单</strong>：🍲 家常料理（就是 <code class="cmd">/kitchen</code> 茶屋食谱）和 🍳 宴席大餐。做好的宴席可以拿着右键<strong>圆矮桌、茶室方桌、长茶桌、樱花小边几、暖桌被炉</strong>摆到家具桌面上（长茶桌每格一份，有菜时不能收桌）；灶台、宴席也能直接摆在茶屋地毯上。</p>
+<p>灶台只在 <code class="cmd">/feast</code> 里买（柚子家具馆不卖）。<strong>右键灶台是两页菜单</strong>：🍲 家常料理（就是 <code class="cmd">/kitchen</code> 茶屋食谱）和 🍳 宴席大餐。做好的宴席可以拿着右键<strong>圆矮桌、茶室方桌、长茶桌、樱花小边几、暖桌被炉</strong>摆到家具桌面上（长茶桌每格一份，有菜时不能收桌）；灶台、宴席也能直接摆在茶屋地毯上。</p>
 <p>大餐品质看食材平均星级：平均 2.5★ 出「秘制」，3.5★ 出「御膳」。</p>
 <div class="table-wrap"><table>
 <tr><th>大餐</th><th>主要食材</th><th>效果</th><th>炭火费</th></tr>
@@ -102,7 +102,7 @@
 </div>
 
 <h2>星露锻造坊 /forge</h2>
-<p><code class="cmd">/forge</code>（别名 <code>/锻造</code>、<code>/tiejiang</code>）有五个分页。工费从茶屋币里扣，<strong>搭子在身边打 85 折</strong>。矿石可以在铁匠「小锤」那里买（<code class="cmd">/npcshop blacksmith</code>）。</p>
+<p><code class="cmd">/forge</code>（别名 <code>/锻造</code>、<code>/tiejiang</code>）有五个分页；手账主菜单的「⚒ 星露锻造坊」左键打开、<strong>右键传送到锻造坊</strong>。工费从茶屋币里扣，<strong>搭子在身边打 85 折</strong>。矿石可以在铁匠「小锤」那里买（<code class="cmd">/npcshop blacksmith</code>）。</p>
 <h3>🔥 矿石精炼：四种锻造合金</h3>
 <div class="table-wrap"><table>
 <tr><th>合金</th><th>配方</th><th>工费</th><th>用途</th></tr>

diff --git a/commands.html b/commands.html
@@ -107,8 +107,8 @@
 <h2>商店与收藏</h2>
 <div class="table-wrap"><table>
 <tr><th>指令</th><th>别名</th><th>作用</th></tr>
-<tr><td><code class="cmd">/shop</code></td><td>/商店 /杂货铺 /shangdian</td><td>茶屋杂货铺：神器、礼盒、家具</td></tr>
-<tr><td><code class="cmd">/npcshop</code> <code>[tackle|florist|blacksmith|bakery|furniture|building|tools]</code></td><td>/商铺 /专柜</td><td>商业街导览与各家专柜；<code>tools</code> 打开专精工具铺，<code>furniture</code> 打开柚子家具馆（分类翻页 + ⚒ 工作台页，见 <a href="furniture.html">茶屋家具</a>）</td></tr>
+<tr><td><code class="cmd">/shop</code></td><td>/商店 /杂货铺 /shangdian</td><td>茶屋杂货铺：神器、礼盒（家具在柚子家具馆）</td></tr>
+<tr><td><code class="cmd">/npcshop</code> <code>[tackle|florist|blacksmith|bakery|furniture|building|tools]</code></td><td>/商铺 /专柜</td><td>商业街（全部商店的入口）与各家专柜；<code>tools</code> 打开专精工具铺，<code>furniture</code> 打开柚子家具馆（分类翻页 + ⚒ 工作台页，见 <a href="furniture.html">茶屋家具</a>）</td></tr>
 <tr><td><code class="cmd">/pet</code></td><td>/宠物 /chongwu</td><td>萌宠乐园</td></tr>
 <tr><td><code class="cmd">/title</code></td><td>/称号 /chenghao</td><td>我的称号：佩戴已拥有的称号，也能去图鉴买新称号</td></tr>
 <tr><td><code class="cmd">/profile</code></td><td>/档案 /dangan</td><td>我的档案：各项成绩和全服名次</td></tr>

diff --git a/faq.html b/faq.html
@@ -57,6 +57,7 @@
 
 <h3>可以在资源世界盖房子吗？</h3>
 <p>不要。资源世界、下界、末地每 7 天整个重置，里面的东西都会消失。那里是挖矿、砍树、刷怪用的（死亡不掉落）。家请盖在主世界。</p>
+<p>（2026-11-26 起每 7 天的自动重置已恢复正常，之前有一段时间没真正重建。<code class="cmd">/ziyuan</code> 面板的「⏳ 每周重置倒计时」能看到下次和上次重置时间。）</p>
 
 <h3>主城里为什么不能挖、不能放方块？</h3>
 <p>主城和环城规划区（中心周围约 ±116 格）受保护，只能在自己租的庄园、旺铺里，或搭子 / 好友授权的地方建造。出城门就能随便建。</p>
